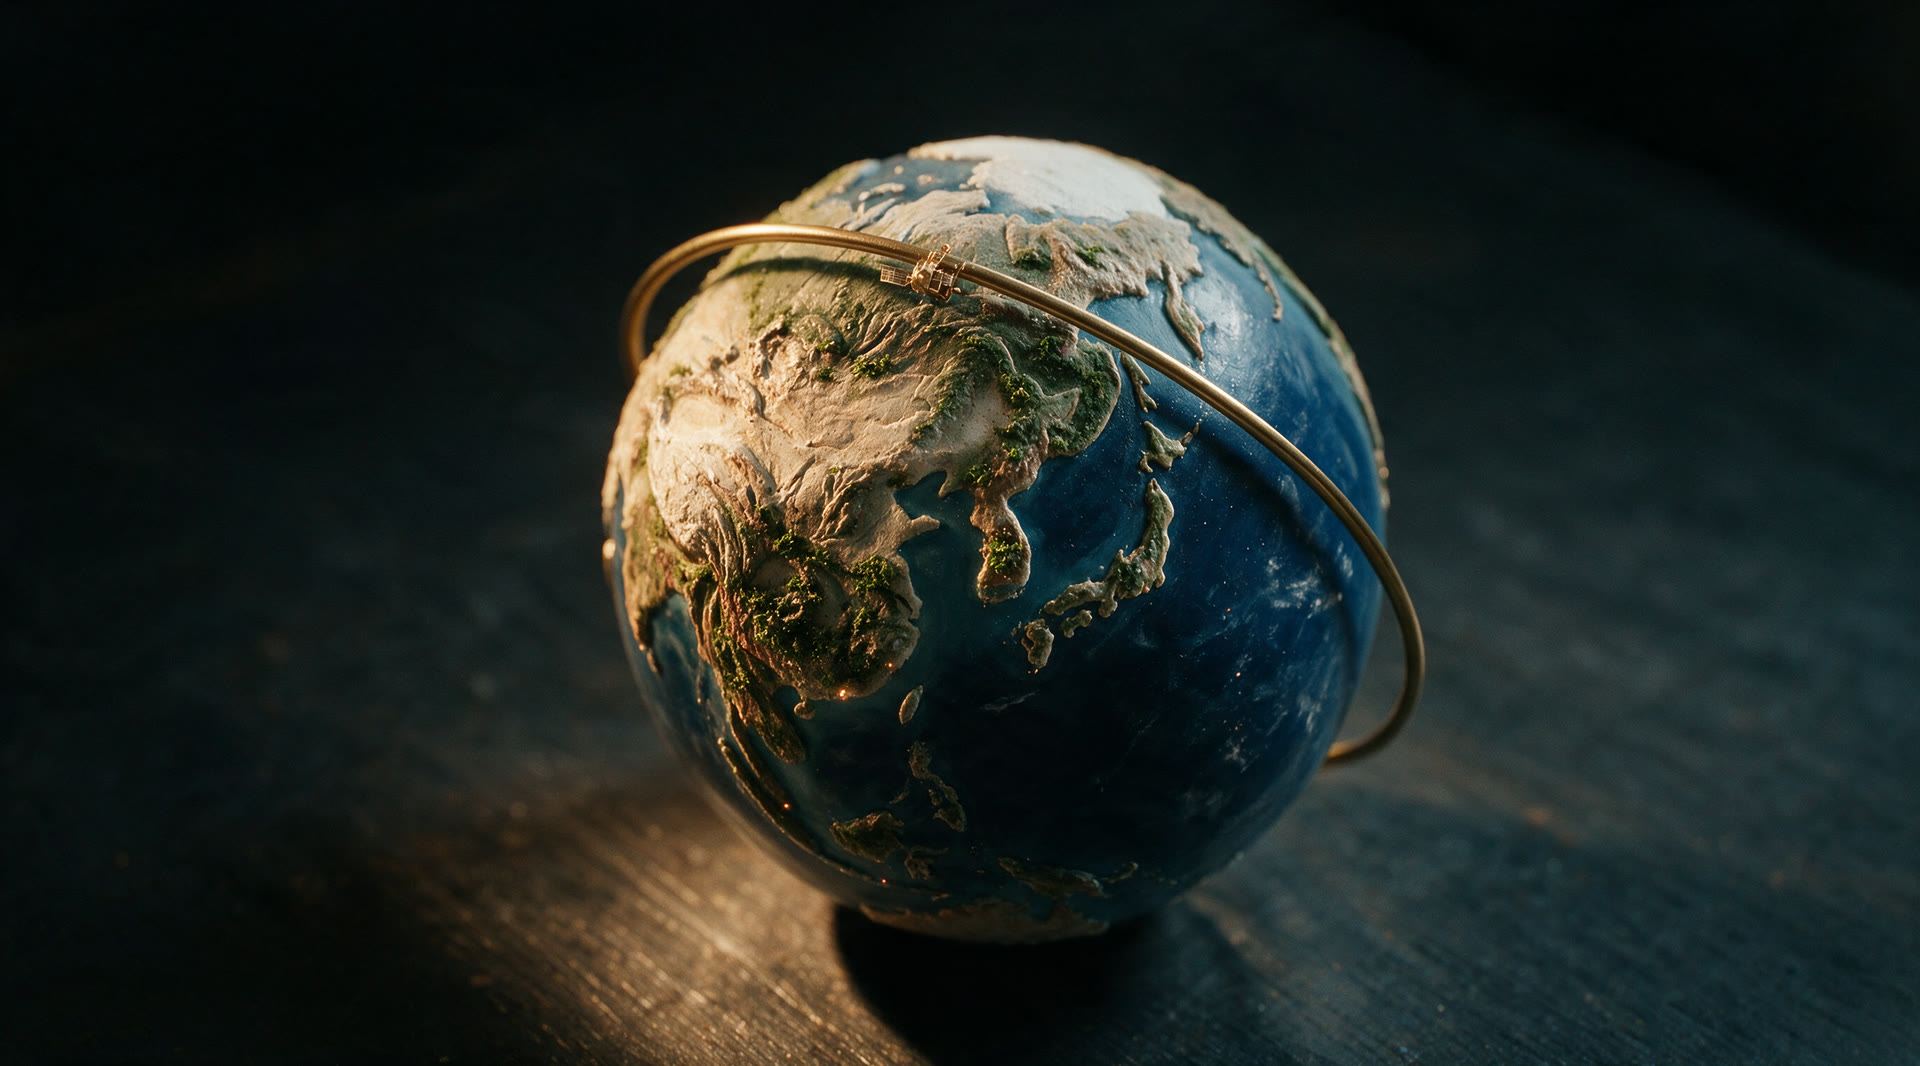
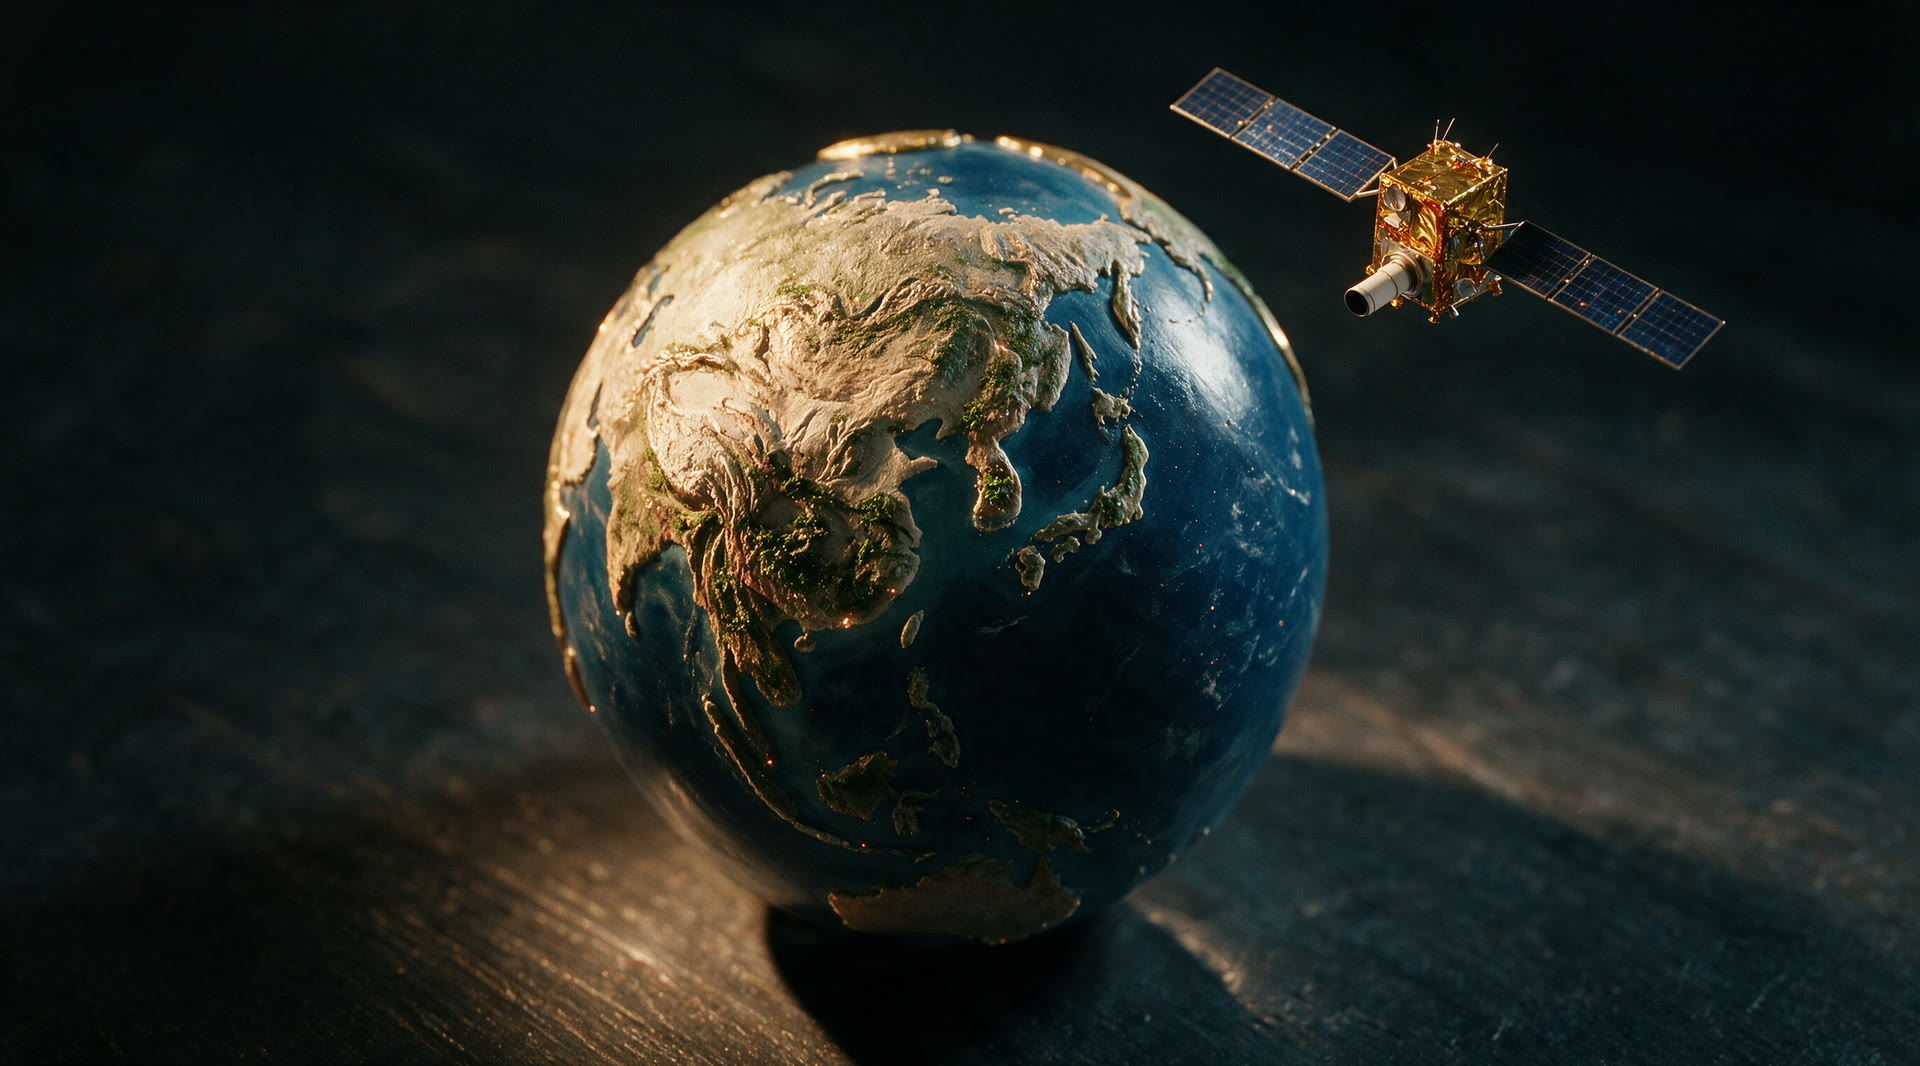
feat(kie): 앵커 rev.3i — A01 리롤, 황동 링 폐기 + 국토위성(CAS500-1)형 모형이 한반도를 본다 (1장, 14 크레딧)
Claude-Session: https://claude.ai/code/session_01WM9MJXSpdbCfwY8af3obk9

diff --git a/landxi/proto/film/anchors.html b/landxi/proto/film/anchors.html
@@ -1,4 +1,4 @@
 <!doctype html><html lang="ko"><head><meta charset="utf-8"><title>앵커 스틸 v3</title>
 <link rel="stylesheet" href="../fonts-system.css"><style>body{margin:0;background:#010102;color:#ccc;font:14px/1.5 Pretendard,system-ui,sans-serif}h1{font-family:Paperlogy,Pretendard,sans-serif;font-weight:700;font-size:18px;letter-spacing:.06em;padding:20px 24px;margin:0;border-bottom:1px solid #272727}
 .g{display:grid;grid-template-columns:repeat(auto-fill,minmax(440px,1fr));gap:24px;padding:24px}figure{margin:0}img{width:100%;display:block;border:1px solid #272727}figcaption{padding:8px 2px;font-size:14px;color:#8a8a8a;letter-spacing:.04em}</style></head>
-<body><h1>앵커 스틸 · 14장</h1><div class="g"><figure><img src="../../assets/proto/film/legs/anchors-v3/A01.jpg" loading="lazy"><figcaption>A01 모형 지구본 — 작업대 직치, 링 상단 위성</figcaption></figure><figure><img src="../../assets/proto/film/legs/anchors-v3/A02.jpg" loading="lazy"><figcaption>A02 고궤도·한반도 — 지구본 + 구름만, 항공기 없음 (rev.3)</figcaption></figure><figure><img src="../../assets/proto/film/legs/anchors-v3/A03.jpg" loading="lazy"><figcaption>A03 구름 천장 — 드론 하단 1/3 공중 부양·소, 항공기 우상단 (rev.3c, 1회 재생성)</figcaption></figure><figure><img src="../../assets/proto/film/legs/anchors-v3/A04.jpg" loading="lazy"><figcaption>A04 능선 너머 남원 분지 — 소품 0 (rev.3)</figcaption></figure><figure><img src="../../assets/proto/film/legs/anchors-v3/A05.jpg" loading="lazy"><figcaption>A05 남원 평야·농지이용 — 프롭 0, 회색 판 제거 (rev.3d, 1회 리롤 · 좌측 도로 환각)</figcaption></figure><figure><img src="../../assets/proto/film/legs/anchors-v3/A06.jpg" loading="lazy"><figcaption>A06 금지면 비닐하우스 — 프롭 0, 구름·좌측 구조물 제거 (rev.3e, 1회 리롤)</figcaption></figure><figure><img src="../../assets/proto/film/legs/anchors-v3/A06b.jpg" loading="lazy"><figcaption>A06b 남원 상공 고고도 — 같은 온실 군락이 중앙-좌에 그대로, 카메라만 상승·곡률·헤이즈 (rev.3f, 1회 리롤)</figcaption></figure><figure><img src="../../assets/proto/film/legs/anchors-v3/A07.jpg" loading="lazy"><figcaption>A07 지구본 이동→여수 — 농지가 해안까지 완만히 내려와 마을과 같은 높이, 고원·절벽 없음 (rev.3e, 1회 리롤)</figcaption></figure><figure><img src="../../assets/proto/film/legs/anchors-v3/A08.jpg" loading="lazy"><figcaption>A08 여수 국동항·해양쓰레기 — 방파제 발치 해안선 클로즈업, 조간대 스티로폼·부표·그물 다량 (rev.3f, 1회 리롤)</figcaption></figure><figure><img src="../../assets/proto/film/legs/anchors-v3/A08b.jpg" loading="lazy"><figcaption>A08b 여수 상공 고고도 — 방파제·항만이 좌하 멀리, 코발트 바다 하단 절반, 곡률·헤이즈, 북동 원경에 영남 능선 시작 (rev.3g, 신규 1회)</figcaption></figure><figure><img src="../../assets/proto/film/legs/anchors-v3/A09.jpg" loading="lazy"><figcaption>A09 지구본 이동→울주 — A08b 와 같은 지형을 북동 이동·하강해 본 것, 같은 해안선 좌하로, 이끼 능선·펠트 필지가 프레임 채움, 급경사지 절개면, 마을·항만 없음 (rev.3h, 1회 리롤)</figcaption></figure><figure><img src="../../assets/proto/film/legs/anchors-v3/A10.jpg" loading="lazy"><figcaption>A10 산림식생·급경사지</figcaption></figure><figure><img src="../../assets/proto/film/legs/anchors-v3/A11.jpg" loading="lazy"><figcaption>A11 불법소각 — 산자락 소면적 공터, 연소 중</figcaption></figure><figure><img src="../../assets/proto/film/legs/anchors-v3/A12.jpg" loading="lazy"><figcaption>A12 국토 변화(데이터 관점) — 황동 격자·측정 셀 점등, 링·위성 복귀</figcaption></figure></div></body></html>
+<body><h1>앵커 스틸 · 14장</h1><div class="g"><figure><img src="../../assets/proto/film/legs/anchors-v3/A01.jpg" loading="lazy"><figcaption>A01 모형 지구본 — 링·암 제거, 우상 전경에 국토위성(CAS500-1)형 모형: 금박 버스 + 청색 태양전지 날개 2 + 흰 망원경 배럴, 한반도 정면 (rev.3i, 1회 리롤 · 클라이언트 검토용)</figcaption></figure><figure><img src="../../assets/proto/film/legs/anchors-v3/A02.jpg" loading="lazy"><figcaption>A02 고궤도·한반도 — 지구본 + 구름만, 항공기 없음 (rev.3)</figcaption></figure><figure><img src="../../assets/proto/film/legs/anchors-v3/A03.jpg" loading="lazy"><figcaption>A03 구름 천장 — 드론 하단 1/3 공중 부양·소, 항공기 우상단 (rev.3c, 1회 재생성)</figcaption></figure><figure><img src="../../assets/proto/film/legs/anchors-v3/A04.jpg" loading="lazy"><figcaption>A04 능선 너머 남원 분지 — 소품 0 (rev.3)</figcaption></figure><figure><img src="../../assets/proto/film/legs/anchors-v3/A05.jpg" loading="lazy"><figcaption>A05 남원 평야·농지이용 — 프롭 0, 회색 판 제거 (rev.3d, 1회 리롤 · 좌측 도로 환각)</figcaption></figure><figure><img src="../../assets/proto/film/legs/anchors-v3/A06.jpg" loading="lazy"><figcaption>A06 금지면 비닐하우스 — 프롭 0, 구름·좌측 구조물 제거 (rev.3e, 1회 리롤)</figcaption></figure><figure><img src="../../assets/proto/film/legs/anchors-v3/A06b.jpg" loading="lazy"><figcaption>A06b 남원 상공 고고도 — 같은 온실 군락이 중앙-좌에 그대로, 카메라만 상승·곡률·헤이즈 (rev.3f, 1회 리롤)</figcaption></figure><figure><img src="../../assets/proto/film/legs/anchors-v3/A07.jpg" loading="lazy"><figcaption>A07 지구본 이동→여수 — 농지가 해안까지 완만히 내려와 마을과 같은 높이, 고원·절벽 없음 (rev.3e, 1회 리롤)</figcaption></figure><figure><img src="../../assets/proto/film/legs/anchors-v3/A08.jpg" loading="lazy"><figcaption>A08 여수 국동항·해양쓰레기 — 방파제 발치 해안선 클로즈업, 조간대 스티로폼·부표·그물 다량 (rev.3f, 1회 리롤)</figcaption></figure><figure><img src="../../assets/proto/film/legs/anchors-v3/A08b.jpg" loading="lazy"><figcaption>A08b 여수 상공 고고도 — 방파제·항만이 좌하 멀리, 코발트 바다 하단 절반, 곡률·헤이즈, 북동 원경에 영남 능선 시작 (rev.3g, 신규 1회)</figcaption></figure><figure><img src="../../assets/proto/film/legs/anchors-v3/A09.jpg" loading="lazy"><figcaption>A09 지구본 이동→울주 — A08b 와 같은 지형을 북동 이동·하강해 본 것, 같은 해안선 좌하로, 이끼 능선·펠트 필지가 프레임 채움, 급경사지 절개면, 마을·항만 없음 (rev.3h, 1회 리롤)</figcaption></figure><figure><img src="../../assets/proto/film/legs/anchors-v3/A10.jpg" loading="lazy"><figcaption>A10 산림식생·급경사지</figcaption></figure><figure><img src="../../assets/proto/film/legs/anchors-v3/A11.jpg" loading="lazy"><figcaption>A11 불법소각 — 산자락 소면적 공터, 연소 중</figcaption></figure><figure><img src="../../assets/proto/film/legs/anchors-v3/A12.jpg" loading="lazy"><figcaption>A12 국토 변화(데이터 관점) — 황동 격자·측정 셀 점등, 링·위성 복귀</figcaption></figure></div></body></html>

diff --git a/docs/superpowers/proto/2026-08-26-anchors-v3.md b/docs/superpowers/proto/2026-08-26-anchors-v3.md
@@ -1045,3 +1045,41 @@ A06b 는 손대지 않았다 (구름·구조물 없음, 구 A06 에서 파생됐
 
 - leg 8b (A08b→A09) 영상은 신 A09 로 재생성 필요(클라이언트 승인 후 1회). leg 9 (A09→A10) 도 시작 프레임이 바뀌었으므로 재생성 대상.
 - A05 좌측 도로(§9-3) 는 여전히 미결.
+
+## 14. 실행 기록 — 2026-08-27 rev.3i A01 리롤 — 링 폐기 + 국토위성(CAS500-1)형 모형 (스틸 1장, 영상 0)
+
+클라이언트(verbatim): **"고리는 없애고 위성은 국토위성 실물과 비슷하게.. 한반도를 보는걸로 바꿨으면 한다."** → 1단계는 **A01 한 장만** 리롤해 모델이 그 위성을 그릴 수 있는지 본다. A02·A12 와 leg 1/2/11 영상은 클라이언트가 이 그림을 본 뒤 따른다. 규칙 동일 — 스틸 정확히 1회, 재시도 0, 상한 20, 영상 0.
+
+### 14-1. 변경 (`tools/kie/anchors-v3.json`)
+
+| 항목 | 내용 |
+|---|---|
+| A01 still_prompt | preamble verbatim. 같은 수제 지구본(석고 대륙·코발트 레진 바다·한반도 정면·좌상 워밍 키·상단 암부)에서 **황동 암 링·"meridian" 문구 삭제**("no ring, hoop, armature, arc or wire … the globe stands bare"). 우상 전경 공중에 **CAS500-1 형 소형 모형**: 금/앰버 박을 감은 상자형 버스, 짙은 청색 셀 + 가는 프레임의 길고 납작한 태양전지 날개 2, 하부의 짧은 흰 망원경 배럴이 **한반도를 향해 아래로**, 작은 안테나 소수; 프레임 폭 약 12 %, 선명, 같은 미니어처 재질 언어(박·석고·황동 피팅), 지구본에 그림자 없음, 그 외 아무것도 없음. |
+| A01 negative | += ring, hoop, armature, arc, meridian, meridian ring, orbit line, string, wire, cartoon rocket, spacecraft with fins, text |
+| A01 ref | `shots/kie/leg01-stills.jpg` 는 3컷 **모두 링이 있어** i2i 누출 위험 → 구 A01 에서 링이 안 걸리는 영역(한반도·코발트 바다·이끼·목재 하이라이트)만 잘라 `shots/kie/A01-v3a-noring-crop.jpg` 로 만들어 ref 로 사용(재질 연속성 유지, 링 0). |
+| 백업 | 구 A01 → `A01.v3a.png/.jpg`. |
+| **무변경(의도)** | A02·A12 스틸, leg 1/2/11 모션 프롬프트. **클라이언트 확인 후** leg 1 "the brass ring opens from a closed circle into a shallow arc", leg 2 "the brass arc and the tiny brass satellite riding it slip above the top edge", leg 11 "the brass ring closes back overhead with the satellite riding it" 및 A12 "brass armature ring closing back overhead" 문구를 전부 빼고 CAS500-1 모형 기준으로 다시 쓴다. |
+
+### 14-2. 크레딧 (상한 20, `ANCHORS_V3_CAP=20`, 세션 `rev3i-2026-08-27`, 이전 원장 `anchors-v3-credits.rev3h.json`)
+
+| 앵커 | 잔액 전 → 후 | 과금 | ref | taskId | wall |
+|---|---|---:|---|---|---:|
+| A01 (리롤) | 9188.5 → 9174.5 | **14.0** | A01-v3a-noring-crop | cecc1468… | 141 s |
+
+호출 1회, 재시도 0, 잔액 차액 = 과금 14.0 정확히(이번엔 14.5 가 아니라 14.0 으로 청구됨).
+
+### 14-3. 판정 (`shots/kie/anchors-v3i-sheet.jpg` — A01 구 | A01 신; 960w 사본 `landxi/assets/proto/review/A01-old.jpg`, `A01-new.jpg`)
+
+| 항목 | 판정 | 근거 |
+|---|:-:|---|
+| 링 제거 | **○** | 지구본을 두르던 황동 암 링이 완전히 사라졌다. 잔여물은 구 표면 실루엣(상단·좌측 림)을 따라 가늘게 남은 **황동 테두리 하이라이트** 하나 — 링이 아니라 구의 가장자리 장식으로 읽히지만, 다음 리롤에서 "brass rim, gilded edge" 를 negative 에 넣으면 사라질 것. |
+| CAS500-1 로 읽히는가 | **○(조건부)** | 상자형 **금박 버스** + 짙은 청색 셀·가는 프레임의 **태양전지 날개 2 (좌 3셀 / 우 3셀)** + **흰 망원경 배럴** + 안테나 소수. 만화 로켓·핀 없음. 실물 CAS500-1(육각 버스 + 양쪽 패널 + 하부 광학)과 같은 구성이라 "국토위성"으로 읽힌다. 유보: 배럴이 **정하방이 아니라 좌하(지구본 상단 림 쪽)** 을 향해 한반도를 직접 겨누는 느낌은 약함 — 영상에서 카메라 push-in 으로 보정 가능하나, 리롤 시 "barrel aimed straight down at the peninsula, satellite placed above and slightly right of Korea" 로 위치를 한반도 상공으로 당기는 게 좋다. 크기는 프레임 폭 ~17 % 로 요청(12 %)보다 크다. |
+| 재질 연속성 | **○** | 지구본은 구 A01 과 같은 물건(석고 대륙·이끼·코발트 레진·광섬유 점·목재 하이라이트·좌상 키), 위성도 박·황동 피팅 미니어처 재질로 CGI 광택 없음. 지구본에 위성 그림자 없음. 상단 암부 유지. |
+| 한반도 정면 | **○** | 엄지형 반도 정중앙, 좌 황해, 우 일본 열도 호. 구 A01 과 같은 회전·구도라 A02 와의 씸(leg 1 dolly-in)이 그대로 성립한다. |
+
+**총평: 모델이 그릴 수 있다.** 링 0 + 국토위성형 모형 + 한반도 정면이 한 번에 나왔다. 클라이언트 확인 사항 2: 위성 크기(17 % → 12 %로 줄일지), 배럴 조준(한반도 정상공으로 옮길지).
+
+### 14-4. 다음
+
+- 클라이언트 OK → A02(상단 호 대신 같은 위성이 한반도 상공에 더 크게)·A12(링 복귀 문구 삭제, 위성 복귀) 리롤 각 1회, leg 1/2/11 모션 프롬프트에서 링 문구 제거, leg 1·2·11 영상 재생성.
+- A05 좌측 도로(§9-3) 는 여전히 미결.
